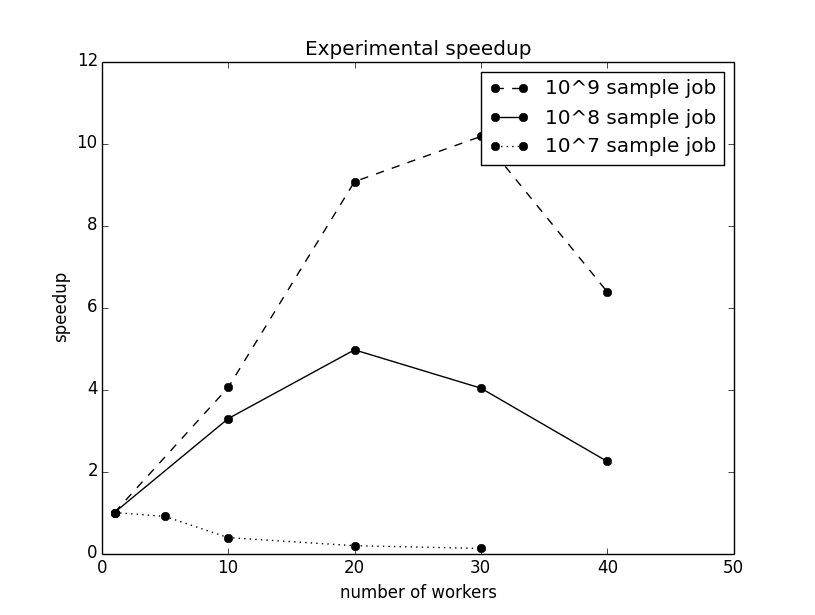
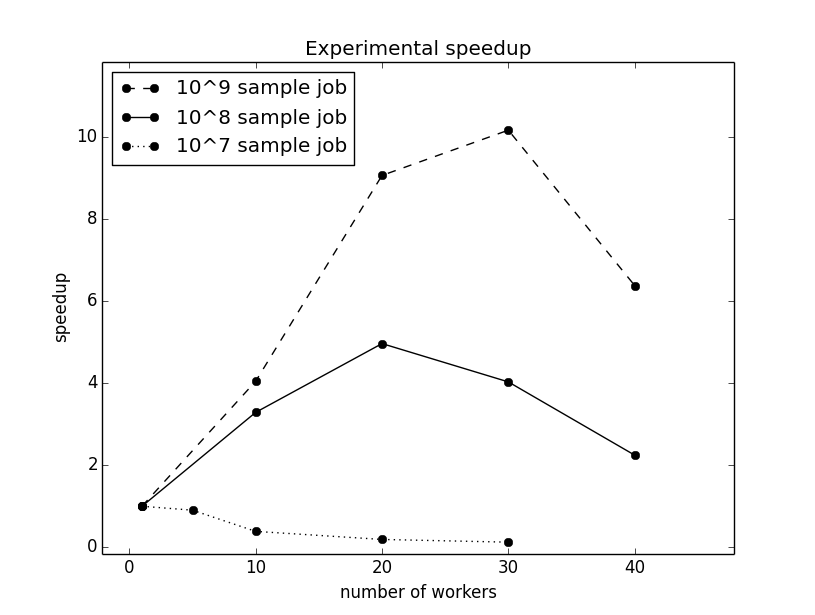
whups

diff --git a/CHRONUS/CODE/plots/plotter.py b/CHRONUS/CODE/plots/plotter.py
@@ -22,14 +22,14 @@ t0=r0[0]
 t1=r1[0]
 t2=r2[0]
 
-# for i in range(0,len(r0)):
-#     r0[i]=t0/r0[i]
+for i in range(0,len(r0)):
+    r0[i]=t0/r0[i]
 
-# for i in range(0,len(r1)):
-#     r1[i]=t1/r1[i]
+for i in range(0,len(r1)):
+    r1[i]=t1/r1[i]
 
-# for i in range(0,len(r2)):
-#     r2[i]=t2/r2[i]
+for i in range(0,len(r2)):
+    r2[i]=t2/r2[i]
 
 
 k0 = []
@@ -81,7 +81,7 @@ xnew = np.linspace(min(churn),max(churn),300)
 y1 = spline(churn,churn_dur,xnew)
 
 plt.plot(churn,churn_dur,"o",label="100,000,000 sample run")
-plt.legend()
+plt.legend(loc=2)
 plt.ylabel('time (seconds)')
 plt.xlabel('likelyhood of failure per second')
 plt.title("Duration versus churn")
@@ -144,10 +144,10 @@ plt.plot([50.0],[0.0],"w")
 #     plt.plot(x,ymean,label="projected 10^"+str(i)+" second job")
 
 
-plt.legend()
-plt.ylabel('time (seconds)')
+plt.legend(loc=2)
+plt.ylabel('speedup')
 plt.xlabel('number of workers')
-plt.title("Experimental Duration")
+plt.title("Experimental speedup")
 plt.show()
 
 ##print s/(len(k0)+len(k1)+len(k2))
